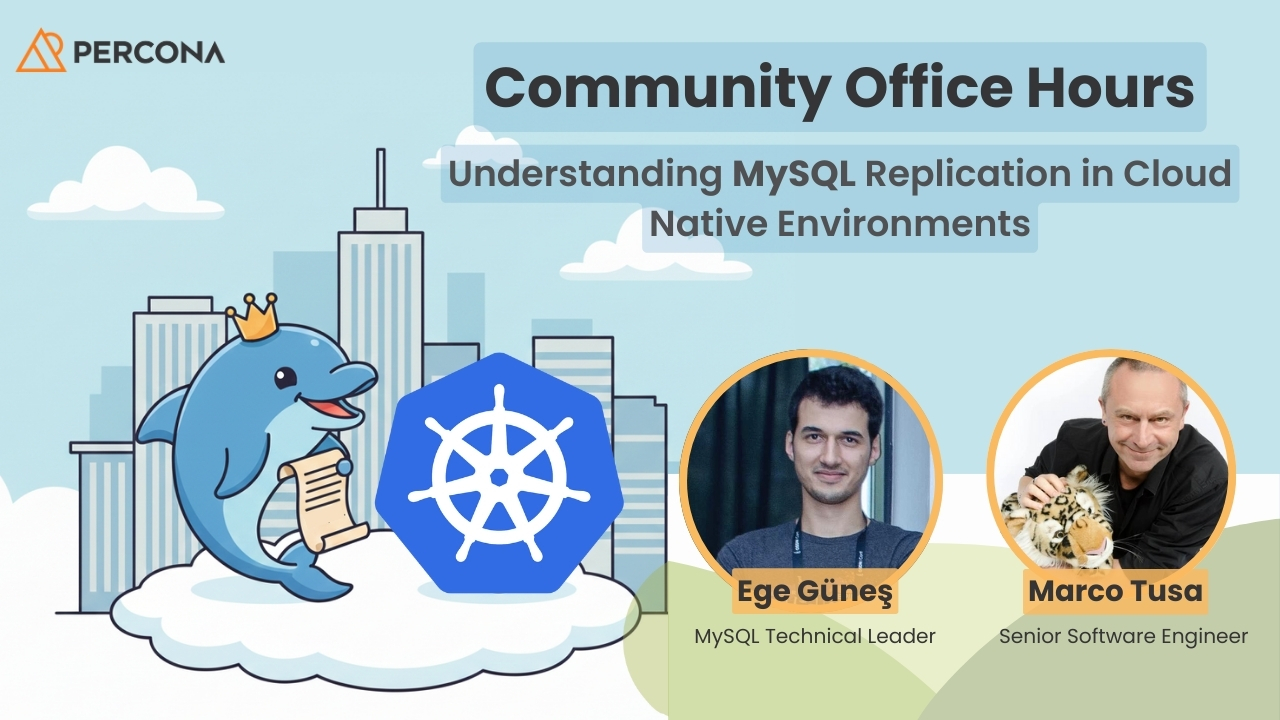
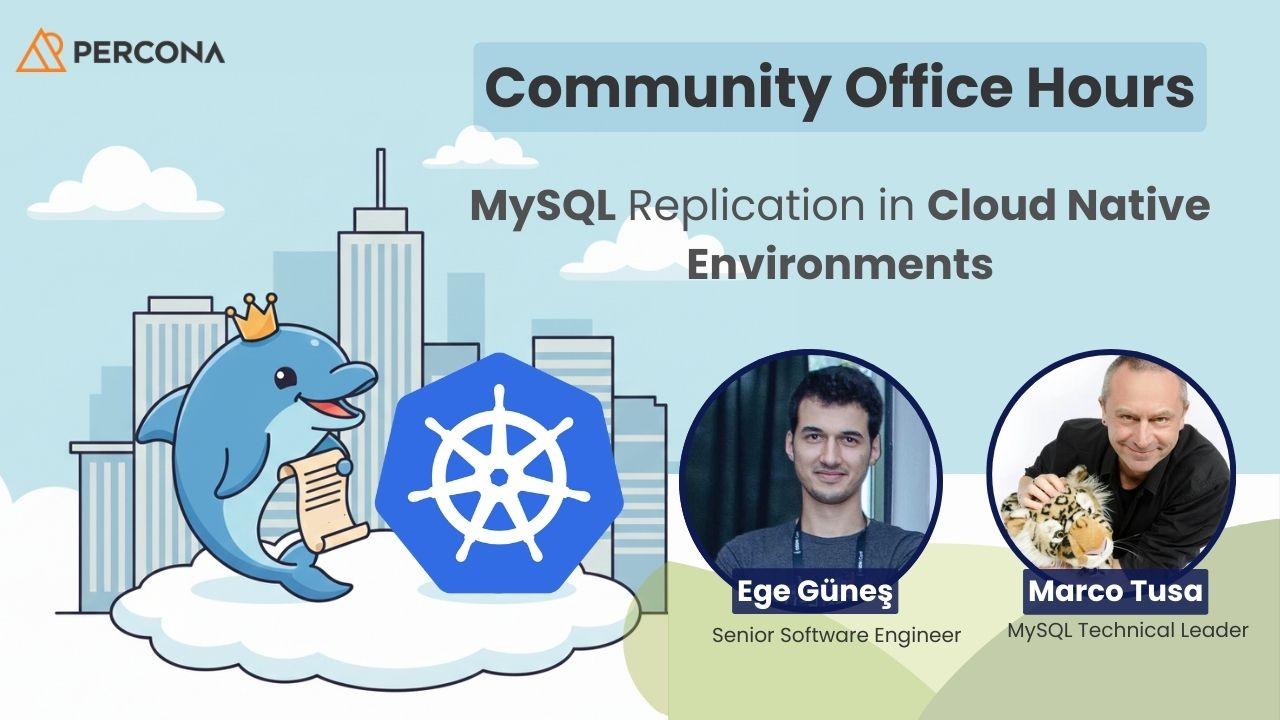
Fix Flyer Community Office hours

diff --git a/content/events/2026-community-office-hours-understanding-mysql-replication-in-cloud-native-environments/index.md b/content/events/2026-community-office-hours-understanding-mysql-replication-in-cloud-native-environments/index.md
@@ -1,5 +1,5 @@
 ---
-title: "Community Office Hours: Understanding MySQL Replication in Cloud Native Environments - December 4, 2025"
+title: "Community Office Hours: MySQL Replication in Cloud Native Environments - December 4, 2025"
 description: "Deep-dive office hours on Percona Operator for MySQL with native Group Replication on Kubernetes—replication models, HA design, and practical ops."
 images:
   - events/2026-community-office-hours-understanding-mysql-replication-in-cloud-native-environments/intro.jpg
